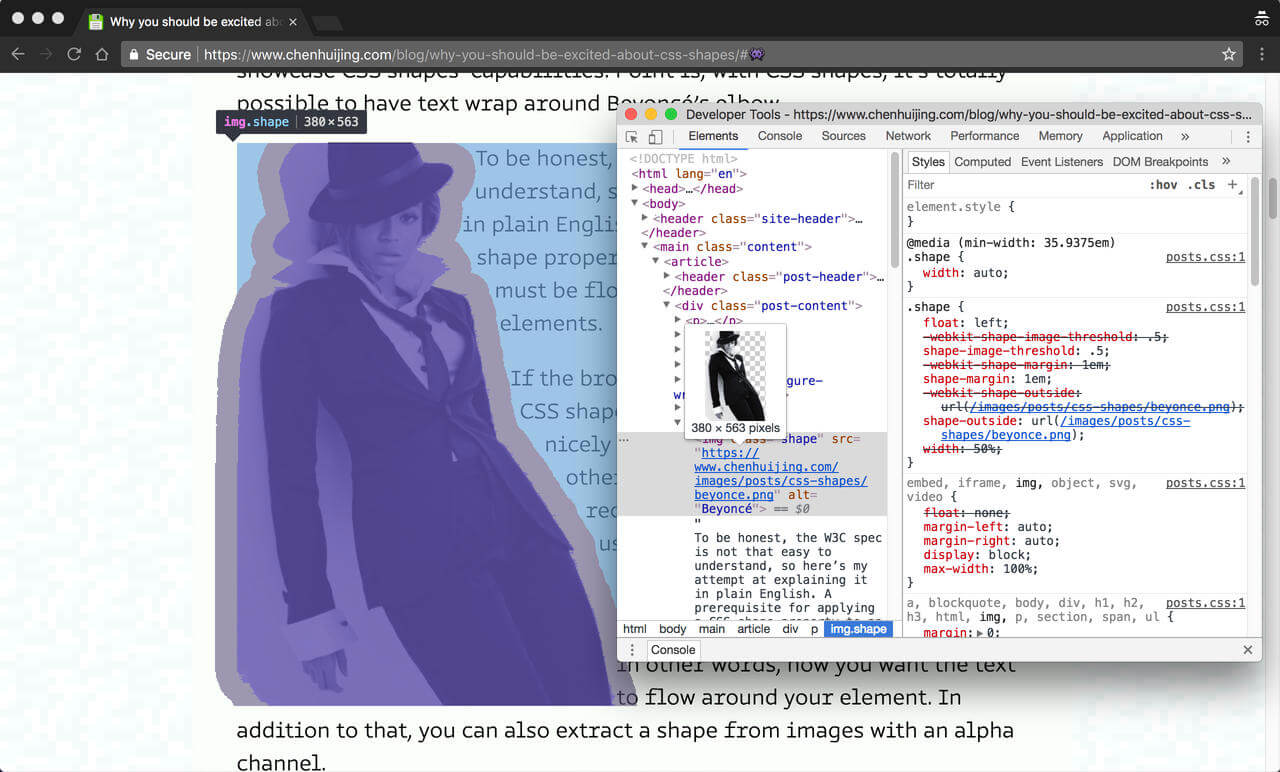
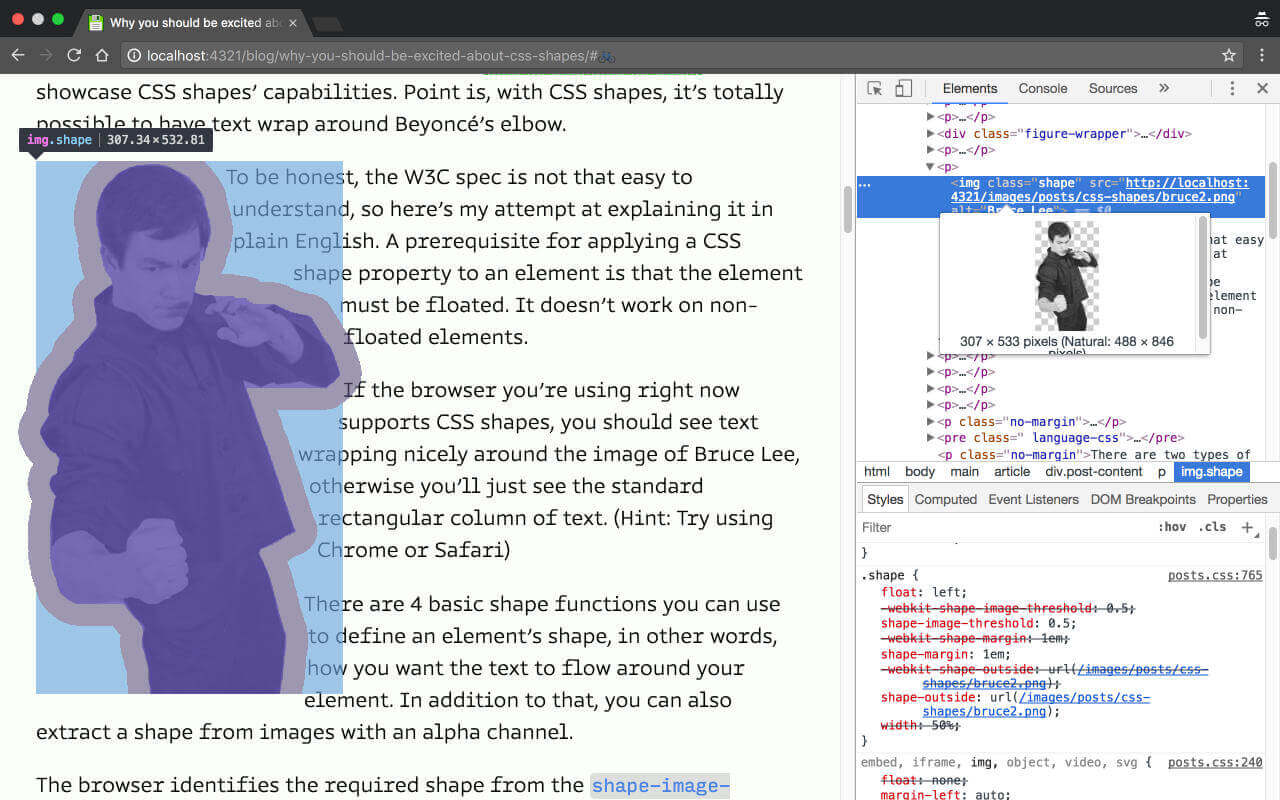
Change beyonce example

diff --git a/moz-roadshow-2017/index.html b/moz-roadshow-2017/index.html
@@ -28,7 +28,7 @@
         <section>
           <h1 style="text-transform:uppercase;"">Be like water</h1>
           <h3>Applying Bruce Lee's philosophy to web design</h3>
-          <aside class="notes"></aside>
+          <aside class="notes">Hello everyone! I can't tell you how happy I am that the Mozilla Developer Roadshow is back in Asia, and for it to kick off here in my home court. Those of you who already know me, and may or may not have been strong-armed into being here today, unfortunately still have to sit through the introduction slide.</aside>
         </section>
 
         <section style="font-size:calc(1.75em + 3vw);">
@@ -49,7 +49,7 @@
           </div>
           <aside class="notes">
             <p>But we're not here to talk about me, we're here to talk about Bruce Lee. You may be thinking, what on earth does Bruce Lee have to do with any of this? Did you just fall victim to click-bait? No, you have not.</p>
-            <p>I'm going to be putting forth some ideas today that I don't expect everyone to agree with, but I do hope you will hear me out. Anyway, although Bruce Lee is known for his fighting prowess, he was also a deeply self-reflective man and philosophy was an inseparable aspect of his martial arts practice.</p>
+            <p>I'm going to be putting forth some ideas today that I don't expect everyone to agree with, but I do hope you will hear me out. Although Bruce Lee is known for his fighting prowess, he was also a deeply self-reflective man and philosophy was an inseparable aspect of his martial arts practice.</p>
           </aside>
         </section>
 
@@ -133,7 +133,7 @@
 
         <section data-background-video="videos/rectangle.mp4" data-background-video-muted>
           <h2 style="text-shadow:1px 1px 2px #fff;">Rectangles</h2>
-          <aside class="notes">Rectangles stacked in different configurations, big rectangles, little rectangles, all the rectangles. Nah, I'm just messing with you. There's absolutely nothing wrong with rectangles. The web is mostly rectangles because for the longest time that's all we could have without resorting to extreme measures of hackish-ness.</aside>
+          <aside class="notes">Rectangles stacked in different configurations, big rectangles, little rectangles, all the rectangles. Nah, I'm just messing with you. Rectangles are great. The web is mostly rectangles because for the longest time that's all we could have without resorting to extreme measures of hackish-ness.</aside>
         </section>
 
         <section data-background-image="img/pony.jpg">
@@ -170,7 +170,7 @@
           <p>and many more...</p>
           <aside class="notes">
             <p>People access information on the web predominantly through browsers. And we do have a lot of them. But they are powered largely by four main layout engines, Blink by Google, Gecko by Mozilla, EdgeHTML by Microsoft and Webkit by Apple.</p>
-            <p>With the maturation of web standards, browser behaviour is less unpredictable than before, though each browser still has their quirks. Features aren't all supported at the same time. But you know what? That's perfectly fine. If we accept this as a feature of the web, instead of a bug, we've just opened up more web design possibilities.</p>
+            <p>With the maturation of web standards, browser behaviour is less unpredictable than before, though each browser still has their quirks. Features aren't all supported at the same time. But you know what? That's perfectly fine. If we accept this as a feature of the web, instead of a bug, we've just opened up a lot more web design possibilities.</p>
           </aside>
         </section>
 
@@ -411,7 +411,7 @@
               <a href="http://caniuse.com/#feat=calc"><img class="plain" data-src="img/caniuse-calc.jpg"></a>
             </p>
           </div>
-          <aside class="notes">So I used some supplementary CSS features in the earlier examples, namely <code>calc()</code> and <code>object-fit</code>. Support for these properties is pretty decent. And they will only continue to get better in the near future. Honestly, the evergreen browser is one of the best things to happen to the web.</aside>
+          <aside class="notes">So I used some supplementary CSS features in the earlier examples, namely <code>calc()</code> and <code>object-fit</code>. Support for these properties is pretty decent. And they will only continue to get better in the near future. Honestly, the evergreen browser model is one of the best things to happen to the web.</aside>
         </section>
 
         <section>
@@ -938,13 +938,13 @@ h2 {
           <h2>Shape from image</h2>
           <div class="livecode">
             <div class="result shapes-cont2">
-              <img class="plain" data-src="img/beyonce.png">
-              <p style="font-size:75%;margin:0;text-align:left;">Beyoncé Giselle Knowles-Carter is an American singer, songwriter, dancer and actress. Born and raised in Houston, Texas, Beyoncé performed in various singing and dancing competitions as a child. She rose to fame in the late 1990s as lead singer of the R&B girl-group Destiny's Child.</p>
+              <img class="plain" data-src="img/bruce2.png">
+              <p style="font-size:75%;margin:0;text-align:left;">Lee Jun-fan (李振藩), known professionally as Bruce Lee, was a Hong Kong and American actor, film director, martial artist, martial arts instructor, philosopher and founder of the martial art Jeet Kune Do. He is widely considered by commentators, critics, media, and other martial artists to be one of the most influential martial artists of all time.</p>
             </div>
             <div class="code"><style class="code-editor" contenteditable="true">.shapes-cont2 img {
   shape-image-threshold: .5;
-  shape-margin: 0.1em;
-  shape-outside: url('img/beyonce.png');
+  shape-margin: 0.3em;
+  shape-outside: url('img/bruce2.png');
   float: left;
 }</style></div>
           </div>
@@ -956,7 +956,7 @@ h2 {
 
         <section data-background-image="img/chrome-shapes.jpg">
           <aside class="notes">
-            <p>If you're using Chrome, you should see something like this, where the text is flowing around Beyoncé. Ask me about Beyoncé later, if you want to.</p>
+            <p>If you're using Chrome, you should see something like this, where the text is flowing around Bruce Lee and his fists of fury.</p>
             <p>Anyway, Chrome has been supporting CSS shapes for a while now, so their DevTools shows you how the <code>shape-threshold</code> and <code>shape-margin</code> properties are being applied.</p>
           </aside>
         </section>
@@ -1067,7 +1067,7 @@ h2 {
           </div>
           <aside class="notes">
             <p>Jen Simmons and Rachel Andrew have done a lot for both developing layout on the web, as well as educating the web development community about it. Rachel has a CSS layout course which is completely online, and Jen Simmons has a wonderful collection of demos which you can check out.</p>
-            <p>Speaking of demos, I think everyone should build up a collection of demos, because that's the best way to learn and familiarise ourselves with CSS in general.</p>
+            <p>Speaking of demos, I think everyone should build up their own collection of demos, because that's the best way to learn and familiarise ourselves with CSS in general.</p>
           </aside>
         </section>
 

diff --git a/moz-roadshow-2017/README.md b/moz-roadshow-2017/README.md
@@ -4,11 +4,13 @@
 
 ## Introduction
 
+Hello everyone! I can't tell you how happy I am that the Mozilla Developer Roadshow is back in Asia, and for it to kick off here in my home court. Those of you who already know me, and may or may not have been strong-armed into being here today, unfortunately still have to sit through the introduction slide.
+
 My name is Hui Jing, and I'm Malaysian. I played basketball for more than half my life, and it was actually what got me into web development in the first place. I'm a front-end engineer based in Singapore now, and I love CSS so much that I will write blog posts about it. I also run Talk.CSS, which is Singapore's only CSS-centric meetup at the moment.
 
 But we're not here to talk about me, we're here to talk about Bruce Lee. You may be thinking, what on earth does Bruce Lee have to do with any of this? Did you just fall victim to click-bait? No, you have not.
 
-I'm going to be putting forth some ideas today that I don't expect everyone to agree with, but I do hope you will hear me out. Anyway, although Bruce Lee is known for his fighting prowess, he was also a deeply self-reflective man and philosophy was an inseparable aspect of his martial arts practice.
+I'm going to be putting forth some ideas today that I don't expect everyone to agree with, but I do hope you will hear me out. Although Bruce Lee is known for his fighting prowess, he was also a deeply self-reflective man and philosophy was an inseparable aspect of his martial arts practice.
 
 > Be formless, shapeless, like water. Now you put water into a cup, it becomes the cup. You put water into a bottle, it becomes the bottle. You put it in a teapot, it becomes the teapot. Now water can flow, or it can crash. Be water, my friend.
 
@@ -46,7 +48,7 @@ But frameworks can be quite prescriptive, and that's how we end up with a lot of
 
 And 12 columns, almost always 12 columns. 12 is a magical number, it can be divided by 2, 3, 4 and 6. Great for responsive web design. So many ways we can rearrange the boxes on our page. Sometimes I wonder if the Sesame Street producers were the original web designers, because we also have this.
 
-Rectangles stacked in different configurations, big rectangles, little rectangles, all the rectangles. Nah, I'm just messing with you. There's absolutely nothing wrong with rectangles. The web is mostly rectangles because for the longest time that's all we could have without resorting to extreme measures of hackish-ness.
+Rectangles stacked in different configurations, big rectangles, little rectangles, all the rectangles. Nah, I'm just messing with you. Rectangles are great. The web is mostly rectangles because for the longest time that's all we could have without resorting to extreme measures of hackish-ness.
 
 When we encounter something completely new, like the web, we always try to reconcile it with something we're already familiar with. In this case, the closest thing we had to the web was print. We even used similar terminology, calling them web pages. And yes, there are many similarities, but it's not like the difference between a brown pony and a white pony...It's more like between a pony and a unicorn. With wings.
 
@@ -60,13 +62,13 @@ As Jen Simmons said, the hardest part is changing our thinking. The dynamism of 
 
 People access information on the web predominantly through browsers. And we do have a lot of them. But they are powered largely by four main layout engines, Blink by Google, Gecko by Mozilla, EdgeHTML by Microsoft and Webkit by Apple.
 
-With the maturation of web standards, browser behaviour is less unpredictable than before, though each browser still has their quirks. Features aren't all supported at the same time. But you know what? That's perfectly fine. If we accept this as a feature of the web, instead of a bug, we've just opened up more web design possibilities.
+With the maturation of web standards, browser behaviour is less unpredictable than before, though each browser still has their quirks. Features aren't all supported at the same time. But you know what? That's perfectly fine. If we accept this as a feature of the web, instead of a bug, we've just opened up a lot more web design possibilities.
 
 Feature queries are key to making this approach feasible. And support for it is really good, with coverage in over 90% of browsers, including Opera Mini. The only browsers that don't support it are Internet Explorer and Blackberry Mobile.
 
 And this is how a feature query looks like. It's a conditional that checks if the browser supports a particular property or not. If it doesn't, the entire block within the @supports rule is ignored.
 
-This means we start off with the basic layout that works everywhere. It could be a single column, largely browser default UI elements, that sort of thing. Then we layer on styles based on the features we want to use.
+This means we start off with the basic layout that works everywhere. It could be a float-based, inline-block based, or single column, largely browser default UI elements, that sort of thing. Then we layer on styles based on the features we want to use.
 
 By organising our code in this manner, the browsers that do not support feature queries or the specified property still get styled, while those that do get a different look. We're making use of the ‘C’ in CSS. Call it ‘Cascading Web Design’, TM, yours truly.
 
@@ -114,7 +116,7 @@ Or I could go neat, and do the cropping thing again. Remove the alignment code, 
 
 And these layouts are a demonstration of what Flexbox can do out-of-the-box. They are not hacks. These are native options that we have when it comes to designing our layouts.
 
-So I used some supplementary CSS features in the earlier examples, namely `calc()` and `object-fit`. Support for these properties is pretty decent. And they will only continue to get better in the near future. Honestly, the evergreen browser is one of the best things to happen to the web.
+So I used some supplementary CSS features in the earlier examples, namely `calc()` and `object-fit`. Support for these properties is pretty decent. And they will only continue to get better in the near future. Honestly, the evergreen browser model is one of the best things to happen to the web.
 
 ### CSS Grid
 
